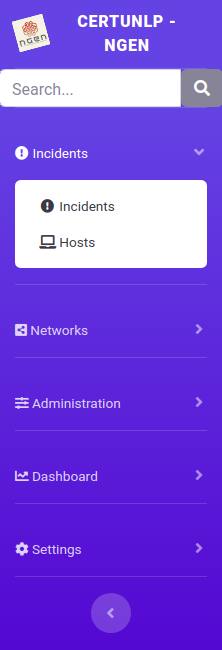
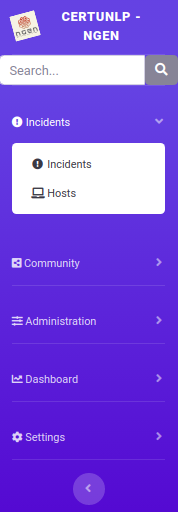
consituency fix

diff --git a/Resources/doc/Readme.md b/Resources/doc/Readme.md
@@ -48,7 +48,7 @@ In NGEN, to define your constituency, you need to define:
 
 To define your constituency you will have to create, one or more, *network entities*, *network admins* and *networks*, clicking on **Networks** in the left bar:
 
-![image](images/consituency-networks.png)
+![image](images/community.png)
 
 * First, add a new entity clicking on **Entities** in the left side bar to see the entities created and then click on **(+)add Network Entity** to create a new one:
 
